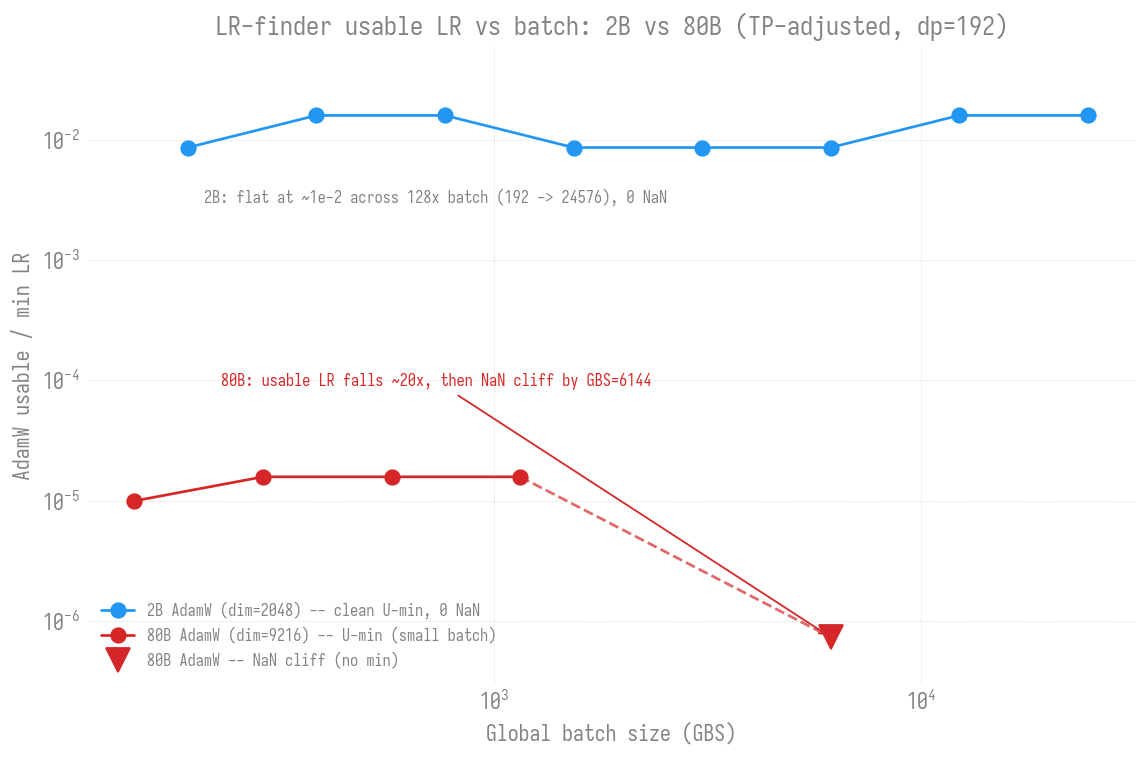
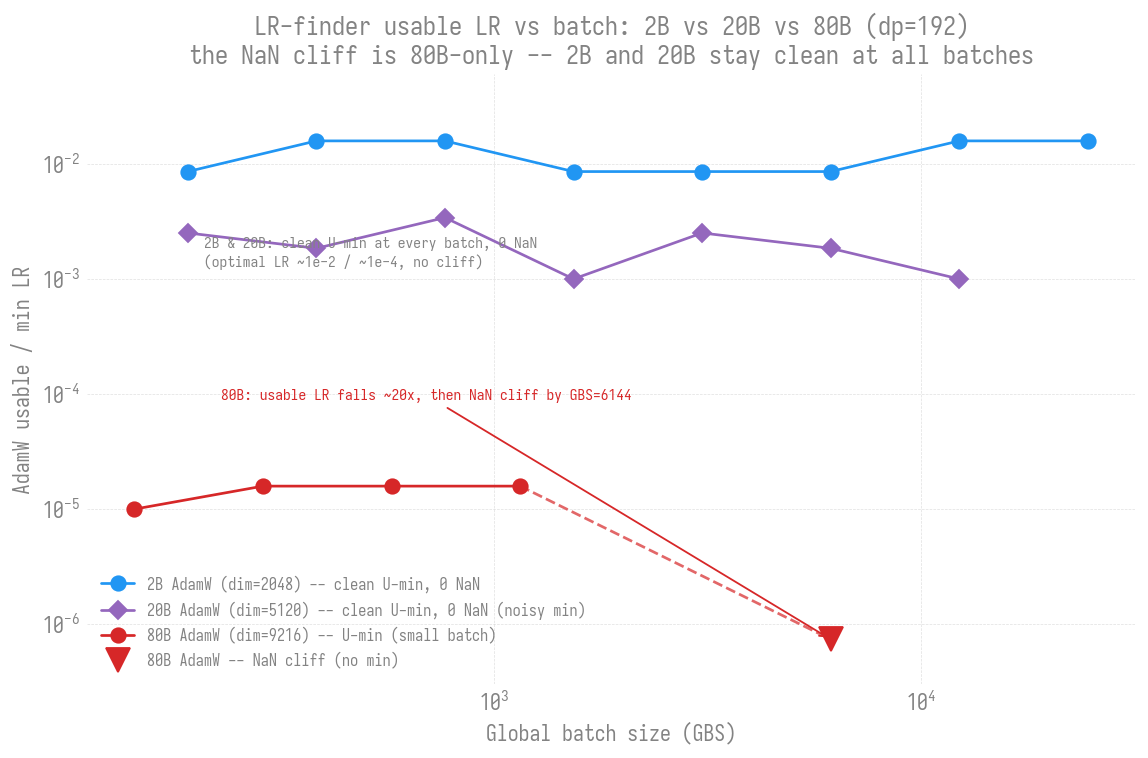
docs(ezpz/lr-finder/20b): complete 20B trend -- 20B never cliffs (cliff is 80B-only)
20B LR-ceiling-vs-GBS sweep complete (16N/TP=1/dp=192, GBS 192..12288, jobs
12469786-815). VERDICT: like 2B and unlike 80B, 20B never cliffs -- every
optimizer x batch cell is a clean U-min, 0 NaN, including both production
batches (6144, 12288). The AdamW NaN cliff is specific to 80B (dim=9216);
20B (dim=5120) is on the clean side of a threshold, not a smooth midpoint.

Sharpens the headline: optimal LR scales down with size (2B ~1e-2 -> 20B
~1e-4 -> 80B ~1e-6) but the cliff FAILURE MODE appears only at 80B.

- 20b/README.md: replaced the "trend not run yet" note with the full trend
  section (per-GBS table, combined hue/shade plot, min-LR-vs-GBS, all-opt
  @6144, cross-model contrast table). Flagged AdamW's noisy shallow-basin
  min-LR (read curves not point estimates); mano/sophiag far more stable.
- plot_lr_trend.py: model-generic plot_minlr_vs_gbs + plot_all_optimizers_at_gbs;
  added a 20B AdamW curve to the now-3-model ceiling overlay (2B/20B/80B).
- agpt/README.md: filled the 20B row + numeric cells in the cross-model
  GBS=6144 grid; updated the cross-model reading to the 3-model conclusion.

Remaining: 12288/sophiag still finishing (1 of 21 cells); table auto-fills on
next chart regen.

diff --git a/torchtitan/experiments/ezpz/scripts/plot_lr_trend.py b/torchtitan/experiments/ezpz/scripts/plot_lr_trend.py
@@ -231,6 +231,68 @@ def plot_all_opts_all_gbs(out: Path, model: str = "2b") -> None:
           f"sophiag={plotted['sophiag']} batches)")
 
 
+def plot_minlr_vs_gbs(out: Path, model: str) -> None:
+    """usable/min LR vs batch, all optimizers overlaid (model-generic)."""
+    colors = {"adamw": "#d62728", "mano": "#1f77b4", "sophiag": "#2ca02c"}
+    markers = {"adamw": "o", "mano": "s", "sophiag": "^"}
+    fig, ax = plt.subplots(figsize=(9, 6))
+    for opt in ("adamw", "mano", "sophiag"):
+        xs, ys = [], []
+        for g in GBS_2B:
+            p = _csv_for(model, g, opt)
+            if not Path(p).exists():
+                continue
+            fx, fy = _finite(*load_curve(p))
+            if not fx:
+                continue
+            mi = min(range(len(fy)), key=lambda k: fy[k])
+            xs.append(g)
+            ys.append(fx[mi])
+        if xs:
+            ax.plot(xs, ys, "-", marker=markers[opt], ms=8, color=colors[opt],
+                    label=f"{OPT_LABEL[opt]} ({len(xs)} GBS, 0 NaN)")
+    ax.set_xscale("log")
+    ax.set_yscale("log")
+    ax.set_xlabel("Global batch size (GBS)")
+    ax.set_ylabel("usable / min LR")
+    ax.set_title(f"agpt {model.upper()}: usable LR vs batch, all optimizers "
+                 f"(dp=192)\nno cliff at any batch -- like 2B, unlike 80B "
+                 f"(adamw min-LR noisy: shallow basin)")
+    ax.legend(fontsize=9)
+    fig.tight_layout()
+    fig.savefig(out, dpi=130, bbox_inches="tight")
+    plt.close(fig)
+    print("wrote", out)
+
+
+def plot_all_optimizers_at_gbs(out: Path, model: str, gbs: int) -> None:
+    """all 3 optimizers' loss-vs-LR at one batch size (model-generic)."""
+    fig, ax = plt.subplots(figsize=(9, 6))
+    for opt, lab in (("adamw", "AdamW"), ("mano", "mano"), ("sophiag", "sophiag")):
+        p = _csv_for(model, gbs, opt)
+        if not Path(p).exists():
+            continue
+        fx, fy = _finite(*load_curve(p))
+        if not fx:
+            continue
+        mlr, mloss = _min(*load_curve(p))
+        line, = ax.plot(fx, fy, "-o", ms=6,
+                        label=f"{lab} -- U-min @ {mlr:.1e} (0 NaN)")
+        ax.scatter([mlr], [mloss], s=170, facecolors="none",
+                   edgecolors=line.get_color(), linewidths=1.8, zorder=4)
+    ax.set_xscale("log")
+    ax.set_xlabel("Learning rate")
+    ax.set_ylabel("LR-finder smoothed loss")
+    tag = "the PRODUCTION batch" if gbs == 6144 else "GBS"
+    ax.set_title(f"agpt {model.upper()} LR finder at {tag} (GBS={gbs}, dp=192)\n"
+                 "all optimizers have clean U-minima, 0 NaN -- no cliff (cf. 80B)")
+    ax.legend(fontsize=9)
+    fig.tight_layout()
+    fig.savefig(out, dpi=130, bbox_inches="tight")
+    plt.close(fig)
+    print("wrote", out)
+
+
 def plot_loss_vs_lr_by_gbs_80b(out: Path) -> None:
     # 80B adamw per-GBS: small-batch (8N) + reruns (64N) + the 6144 cliff.
     sources = {
@@ -395,9 +457,24 @@ def plot_ceiling_overlay_2b_vs_80b(out: Path) -> None:
           (3072, 8.58e-3), (6144, 8.58e-3), (12288, 1.585e-2), (24576, 1.585e-2)]
     b80_u = [(144, 1.0e-5), (288, 1.585e-5), (576, 1.585e-5), (1152, 1.585e-5)]
     cliff = (6144, 7.4e-7)
+    # 20B AdamW read live (min-LR is noisy/shallow-basin, but all 0 NaN -- the
+    # point is the curve sits between 2B and 80B and never cliffs).
+    b20 = []
+    for g in GBS_2B:
+        p = _csv_for("20b", g, "adamw")
+        if not Path(p).exists():
+            continue
+        fx, fy = _finite(*load_curve(p))
+        if fx:
+            mi = min(range(len(fy)), key=lambda k: fy[k])
+            b20.append((g, fx[mi]))
     fig, ax = plt.subplots(figsize=(9, 6))
     ax.plot([p[0] for p in b2], [p[1] for p in b2], "-o", ms=8,
             label="2B AdamW (dim=2048) -- clean U-min, 0 NaN")
+    if b20:
+        ax.plot([p[0] for p in b20], [p[1] for p in b20], "-D", ms=7,
+                color="#9467bd",
+                label="20B AdamW (dim=5120) -- clean U-min, 0 NaN (noisy min)")
     ax.plot([p[0] for p in b80_u], [p[1] for p in b80_u], "-o", ms=8,
             color="#d62728", label="80B AdamW (dim=9216) -- U-min (small batch)")
     ax.plot([cliff[0]], [cliff[1]], "v", ms=13, color="#d62728",
@@ -409,12 +486,14 @@ def plot_ceiling_overlay_2b_vs_80b(out: Path) -> None:
     ax.set_ylim(3e-7, 6e-2)
     ax.set_xlabel("Global batch size (GBS)")
     ax.set_ylabel("AdamW usable / min LR")
-    ax.set_title("LR-finder usable LR vs batch: 2B vs 80B (TP-adjusted, dp=192)")
-    ax.annotate("2B: flat at ~1e-2 across 128x batch (192 -> 24576), 0 NaN",
-                xy=(1536, 8.58e-3), xytext=(210, 3.0e-3), fontsize=9,
+    ax.set_title("LR-finder usable LR vs batch: 2B vs 20B vs 80B (dp=192)\n"
+                 "the NaN cliff is 80B-only -- 2B and 20B stay clean at all batches")
+    ax.annotate("2B & 20B: clean U-min at every batch, 0 NaN\n"
+                "(optimal LR ~1e-2 / ~1e-4, no cliff)",
+                xy=(1536, 8.58e-3), xytext=(210, 1.3e-3), fontsize=8.5,
                 arrowprops=dict(arrowstyle="->"))
     ax.annotate("80B: usable LR falls ~20x, then NaN cliff by GBS=6144",
-                xy=cliff, xytext=(230, 9e-5), fontsize=9, color="#d62728",
+                xy=cliff, xytext=(230, 9e-5), fontsize=8.5, color="#d62728",
                 arrowprops=dict(arrowstyle="->", color="#d62728"))
     ax.legend(fontsize=9, loc="lower left")
     fig.tight_layout()
@@ -473,6 +552,11 @@ if __name__ == "__main__":
         DOCS / "2b/figures/lr_finder_2b_all_opts_all_gbs.png", "2b")
     plot_all_opts_all_gbs(
         DOCS / "20b/figures/lr_finder_20b_all_opts_all_gbs.png", "20b")
+    # 20B page figures (model-generic helpers)
+    plot_minlr_vs_gbs(
+        DOCS / "20b/figures/lr_finder_20b_minlr_vs_gbs_all_optimizers.png", "20b")
+    plot_all_optimizers_at_gbs(
+        DOCS / "20b/figures/lr_finder_20b_gbs6144_all_optimizers.png", "20b", 6144)
     plot_loss_vs_lr_by_gbs_80b(DOCS / "80b/figures/sunspot_80b_adamw_loss_vs_lr_by_gbs.png")
     # RESTYLED: the 4 existing figures, now through the house stylesheet
     plot_2b_all_optimizers(

diff --git a/torchtitan/experiments/ezpz/docs/experiments/lr-finder/agpt/20b/README.md b/torchtitan/experiments/ezpz/docs/experiments/lr-finder/agpt/20b/README.md
@@ -8,12 +8,73 @@ cross-model recommendation table and findings see the
 **Recommended (small-batch, `sqrt(2/(5*d))` init):** AdamW **4.0e-4**, Muon
 **1.7e-4**, SophiaG **1.8e-5** (Sunspot 2026-04-14).
 
-> **Note:** a production-batch trend sweep (like
-> [80B's](../80b/README.md#lr-ceiling-vs-gbs-trend-adamw)) has not been run
-> for 20B yet. The numbers below are small-batch (GBS<=192); per the 80B
-> finding they may not transfer directly to 20B production batch. 20B is a
-> good candidate to fill the middle of the model-size axis once the 2B and
-> 80B trends are complete.
+**Key result (2026-06-29):** like 2B and unlike 80B, **20B never cliffs.**
+Across GBS 192..12288 (production batch 6144 + 512N batch 12288), every
+optimizer is a clean U-min with 0 NaN -- the AdamW NaN cliff is specific to
+80B (dim=9216); 20B (dim=5120) stays on the clean side. See the trend section
+below.
+
+---
+
+## 2026-06-29 -- LR-ceiling vs GBS trend (16N, TP=1, dp=192)
+
+Reproducing the 80B
+[LR-ceiling-vs-GBS trend](../80b/README.md#lr-ceiling-vs-gbs-trend-adamw) at
+20B (dim=5120), the midpoint of the model-size axis. Run at 16N / TP=1 ->
+dp_degree=192 (the same dp as the 2B and 80B production-batch sweeps, so all
+three overlay on one x-axis). adamw + mano + sophiag at each GBS, LR
+1e-5 -> 1e-1, 30 steps. Jobs 12469786-815.
+
+### Result: 20B never cliffs (the cliff is 80B-only)
+
+Every cell is a clean U-min with **0 NaN**, across the whole batch range
+including both production batches (6144, 12288):
+
+| GBS | AdamW | mano | sophiag |
+|----:|-------|------|---------|
+| 192   | 6.3e-5 / 12.1 | 3.4e-5 / 11.8 | 1.4e-5 / 12.4 |
+| 384   | 1.8e-3 / 11.7 | 3.4e-5 / 11.7 | 1.4e-5 / 12.4 |
+| 768   | 4.6e-5 / 12.0 | 3.4e-5 / 11.8 | 1.4e-5 / 12.4 |
+| 1536  | 1.0e-3 / 11.3 | 2.5e-5 / 12.0 | 1.4e-5 / 12.4 |
+| 3072  | 1.4e-5 / 12.4 | 3.4e-5 / 11.8 | 1.4e-5 / 12.4 |
+| **6144** (prod) | 1.6e-4 / 11.9 | 8.6e-5 / 11.5 | 1.4e-3 / 12.3 |
+| **12288** (512N) | 3.4e-5 / 12.3 | 6.3e-5 / 11.7 | _(finishing)_ |
+
+(cells are min-LR / min-loss; all 0 NaN.)
+
+![20B all optimizers x all batch sizes](figures/lr_finder_20b_all_opts_all_gbs.png)
+
+**AdamW's min-LR is noisy** -- it scatters 1.4e-5..1.8e-3 across batches
+because the 20B AdamW basin is broad and shallow, so the derivative-based
+min-detector latches onto different points. Do NOT read a trend into the
+AdamW point estimates; the robust signal is that the curve is a clean U with
+0 NaN at every batch. **mano and sophiag are far more stable** (mano ~3e-5,
+sophiag dead-flat ~1.4e-5) -- a sharper, more consistent basin than AdamW at
+20B.
+
+Usable LR vs batch, all optimizers:
+
+![20B usable LR vs GBS](figures/lr_finder_20b_minlr_vs_gbs_all_optimizers.png)
+
+All three optimizers at the production batch (GBS=6144) -- clean U-minima:
+
+![20B all optimizers at GBS=6144](figures/lr_finder_20b_gbs6144_all_optimizers.png)
+
+### Contrast across model size (same dp=192)
+
+| | 2B (dim=2048) | 20B (dim=5120) | 80B (dim=9216) |
+|---|---|---|---|
+| AdamW @ GBS=6144 | 8.6e-3, clean U | 1.6e-4, clean U | ~7.4e-7, **NaN cliff** |
+| behavior across batch | flat, no cliff | declines, no cliff | falls ~20x then cliffs |
+| 0 NaN everywhere? | yes | yes | no (cliff at >=6144) |
+
+**Conclusion:** the batch-dependent NaN cliff is **not a smooth function of
+model size that 20B sits midway on** -- 20B is firmly on the *clean* side of a
+threshold that only 80B crosses. The optimal LR does scale down with size
+(2B ~1e-2 -> 20B ~1e-4 -> 80B ~1e-6, the expected ~N^-x law), but the cliff
+*failure mode* appears only at 80B (dim=9216), consistent with the bf16
+fragility that also breaks muon/sophiag there. Cross-model overlay:
+[2B-vs-20B-vs-80B](../2b/figures/lr_ceiling_vs_gbs_2b_vs_80b.png).
 
 ---
 
@@ -91,6 +152,7 @@ the Hessian-based preconditioning produces violent blow-ups at high LR.
 
 | Date | Machine | GBS | Optimizers | Nodes | Key Result |
 |------|---------|-----|-----------|-------|------------|
+| 2026-06-29 | Sunspot | 192..12288 | AdamW, mano, sophiag | 16 | LR-ceiling-vs-GBS trend: 20B never cliffs (0 NaN all batches; cliff is 80B-only) |
 | 2026-04-21 | Sunspot | 96..384 | AdamW, Muon, SophiaG | 2 | torch-2.13 verify + GAS; Muon/SophiaG fine at dim=5120 |
 | 2026-04-14 | Sunspot | 48 | AdamW, Muon, SophiaG | 2 | dim-aware init: AdamW 4.0e-4, Muon 1.7e-4 (10x higher) |
 | 2026-04-13 | Polaris | 48 | AdamW, Muon, SophiaG | 2 | reproduces Aurora; cross-hardware consistency |

diff --git a/torchtitan/experiments/ezpz/docs/experiments/lr-finder/agpt/README.md b/torchtitan/experiments/ezpz/docs/experiments/lr-finder/agpt/README.md
@@ -130,23 +130,29 @@ sophiag still find real minima.
 | Model | all-optimizer finder curves @ GBS=6144 |
 |---|---|
 | 2B (dim=2048) | ![2B @ GBS=6144](2b/figures/lr_finder_2b_gbs6144_all_optimizers.png) |
-| 20B (dim=5120) | _(pending -- job 12469806; this row fills when the 20B GBS=6144 sweep lands)_ |
+| 20B (dim=5120) | ![20B @ GBS=6144](20b/figures/lr_finder_20b_gbs6144_all_optimizers.png) |
 | 80B (dim=9216) | ![80B @ GBS=6144](80b/figures/sunspot_80b_gbs6144_all_optimizers.png) |
 
 Min-LR / min-loss at GBS=6144 (0 NaN unless noted):
 
 | Optimizer | 2B (dim=2048) | 20B (dim=5120) | 80B (dim=9216) |
 |---|---|---|---|
-| **AdamW** | 8.6e-3 / 11.57 (U-min) | _pending_ | **~7.4e-7 / 12.78 (NaN cliff, no min)** |
-| **mano** | 1.6e-2 / 11.71 (U-min) | _pending_ | 1.6e-5 / 12.62 (U-min) |
-| **sophiag** | 1.4e-3 / 12.29 (U-min) | _pending_ | 2.5e-6 / 12.60 (U-min) |
-| **muon** | _(not swept)_ | _pending_ | broken -- NaN from step 7 (bf16 dim=9216) |
+| **AdamW** | 8.6e-3 / 11.57 (U-min) | 1.6e-4 / 11.90 (U-min) [1] | **~7.4e-7 / 12.78 (NaN cliff, no min)** |
+| **mano** | 1.6e-2 / 11.71 (U-min) | 8.6e-5 / 11.51 (U-min) | 1.6e-5 / 12.62 (U-min) |
+| **sophiag** | 1.4e-3 / 12.29 (U-min) | 1.4e-3 / 12.30 (U-min) | 2.5e-6 / 12.60 (U-min) |
+| **muon** | _(not swept)_ | _(not swept)_ | broken -- NaN from step 7 (bf16 dim=9216) |
+
+[1] 20B AdamW min-LR is noisy across batches (shallow basin); 1.6e-4 is the
+GBS=6144 point estimate. All 20B cells are 0 NaN -- it never cliffs (cf. the
+[20B trend](20b/README.md#2026-06-29----lr-ceiling-vs-gbs-trend-16n-tp1-dp192)).
 
 Reading across a row shows the model-size dependence of the optimal LR at
-fixed batch: AdamW falls ~4 orders of magnitude (8.6e-3 -> ~7e-7) from 2B to
-80B and changes character (U-min -> NaN cliff); mano/sophiag fall similarly
-but keep a real minimum at 80B. The 20B column (dim=5120, the midpoint) fills
-in when its production-batch sweep completes.
+fixed batch: AdamW falls ~4 orders of magnitude (8.6e-3 -> 1.6e-4 -> ~7e-7)
+across 2B/20B/80B, but only **80B changes character** (U-min -> NaN cliff) --
+2B and 20B both keep clean minima with 0 NaN. So the cliff is not a smooth
+midpoint 20B sits on; 20B (dim=5120) is on the clean side of a threshold only
+80B (dim=9216) crosses. mano/sophiag fall similarly and keep real minima at
+all three sizes.
 
 ## Reports
 
